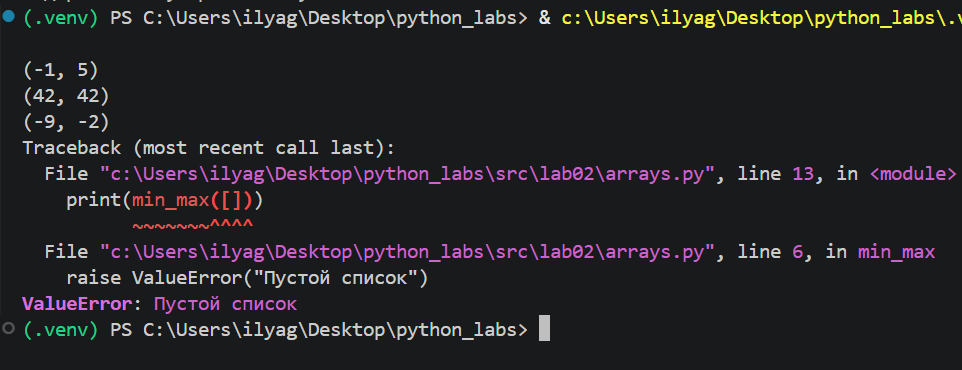
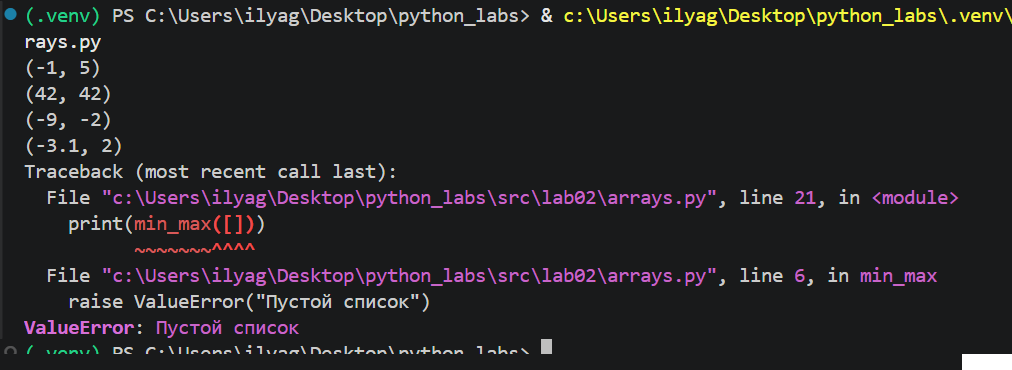
fix pic

diff --git a/src/lab02/arrays.py b/src/lab02/arrays.py
@@ -17,8 +17,9 @@ def min_max(nums: list[float | int]) -> tuple[float | int, float | int]:
 # print(min_max([3, -1, 5, 5, 0]))
 # print(min_max([42]))
 # print(min_max([-5, -2, -9]))
-# print(min_max([]))
 # print(min_max([1.5, 2, 2.0, -3.1]))
+# print(min_max([]))
+
 
 #----------------------------------------------------------------------------------------------
 #Сортировка
@@ -45,7 +46,6 @@ def unique_sorted(nums: list[float | int]) -> list[float | int]:
 
 # print(unique_sorted([3, 1, 2, 1, 3]))
 # print(unique_sorted([]))
-# print(unique_sorted([5, 5, 5, 5]))
 # print(unique_sorted([-1, -1, 0, 2, 2]))
 # print(unique_sorted([1.0, 1, 2.5, 2.5, 0]))
 

diff --git a/src/lab03/text_stats.py b/src/lab03/text_stats.py
@@ -1,6 +1,6 @@
 from src.lib.text import normalize, tokenize, top_n, count_freq
 
-TABLE = 0 #Для включения режима таблички
+TABLE = 1 #Для включения режима таблички
 
 
 def text_stat(text: str):
